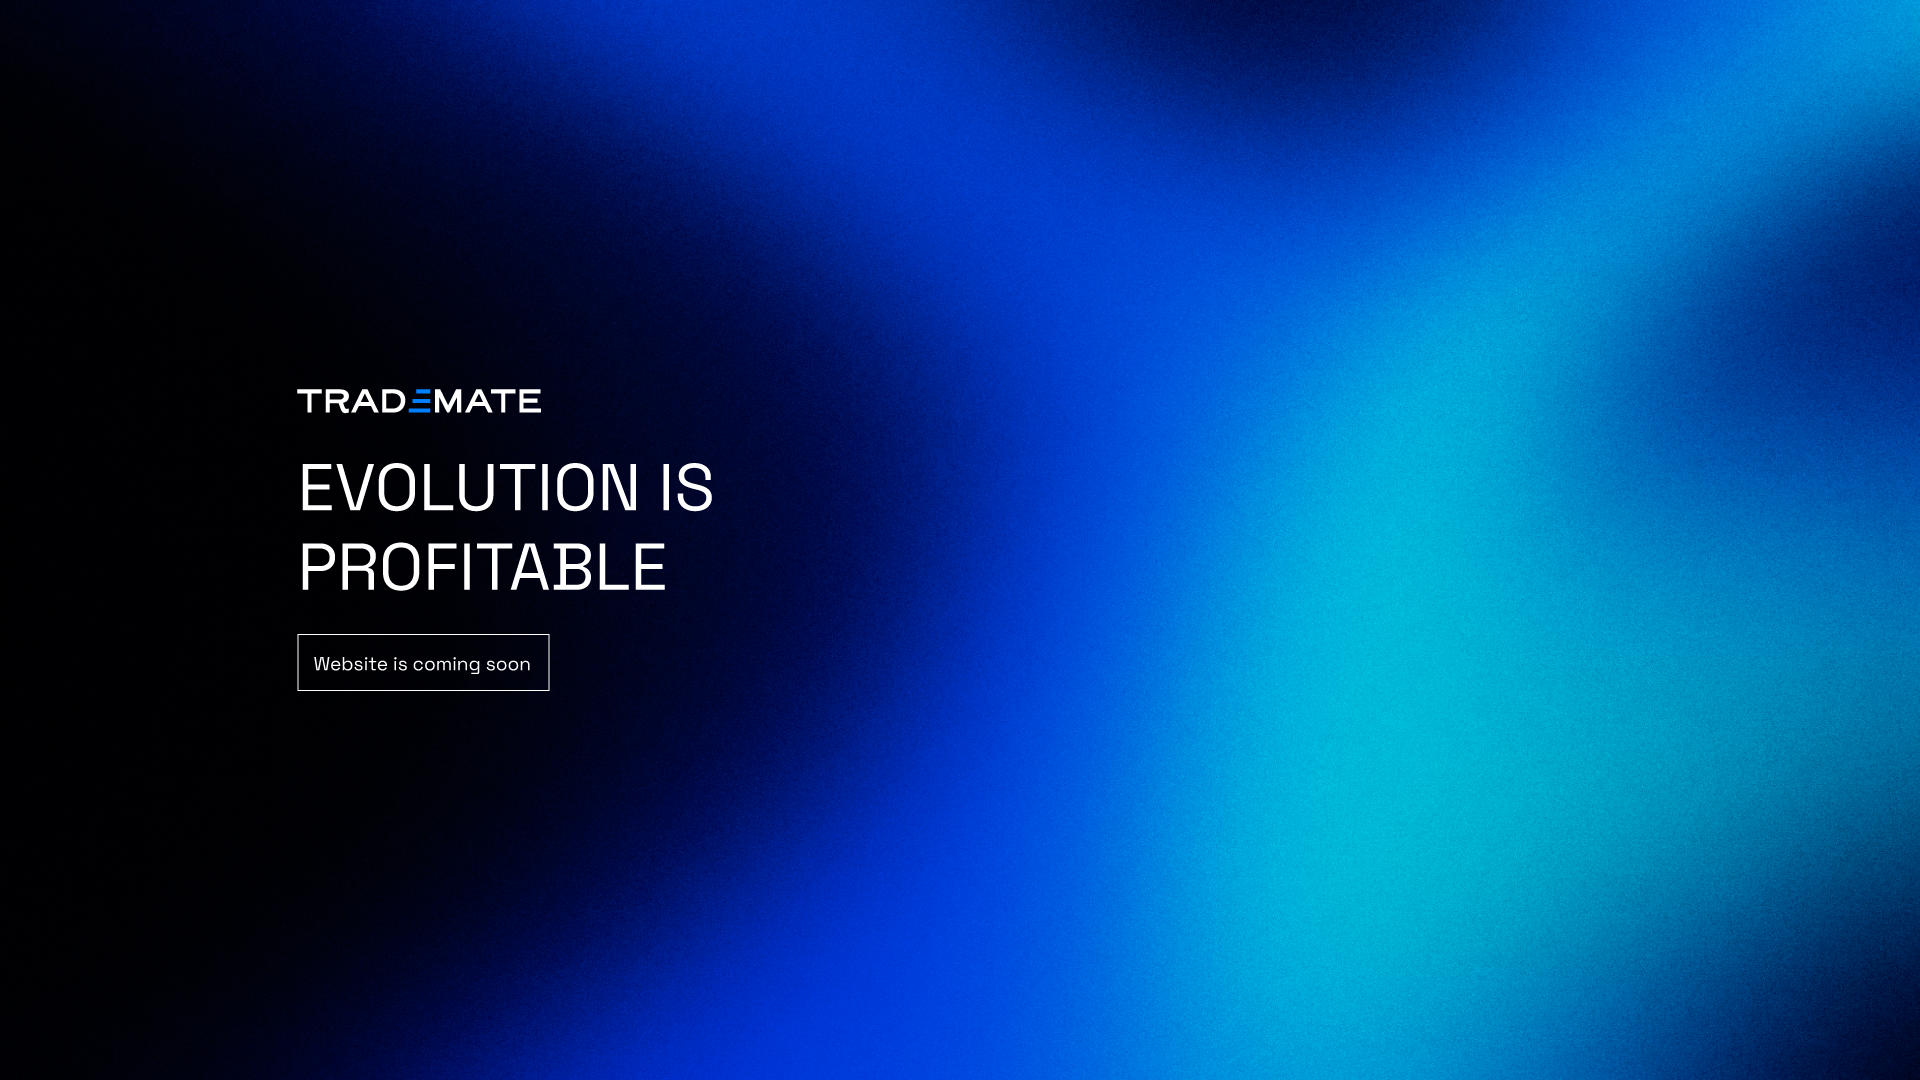
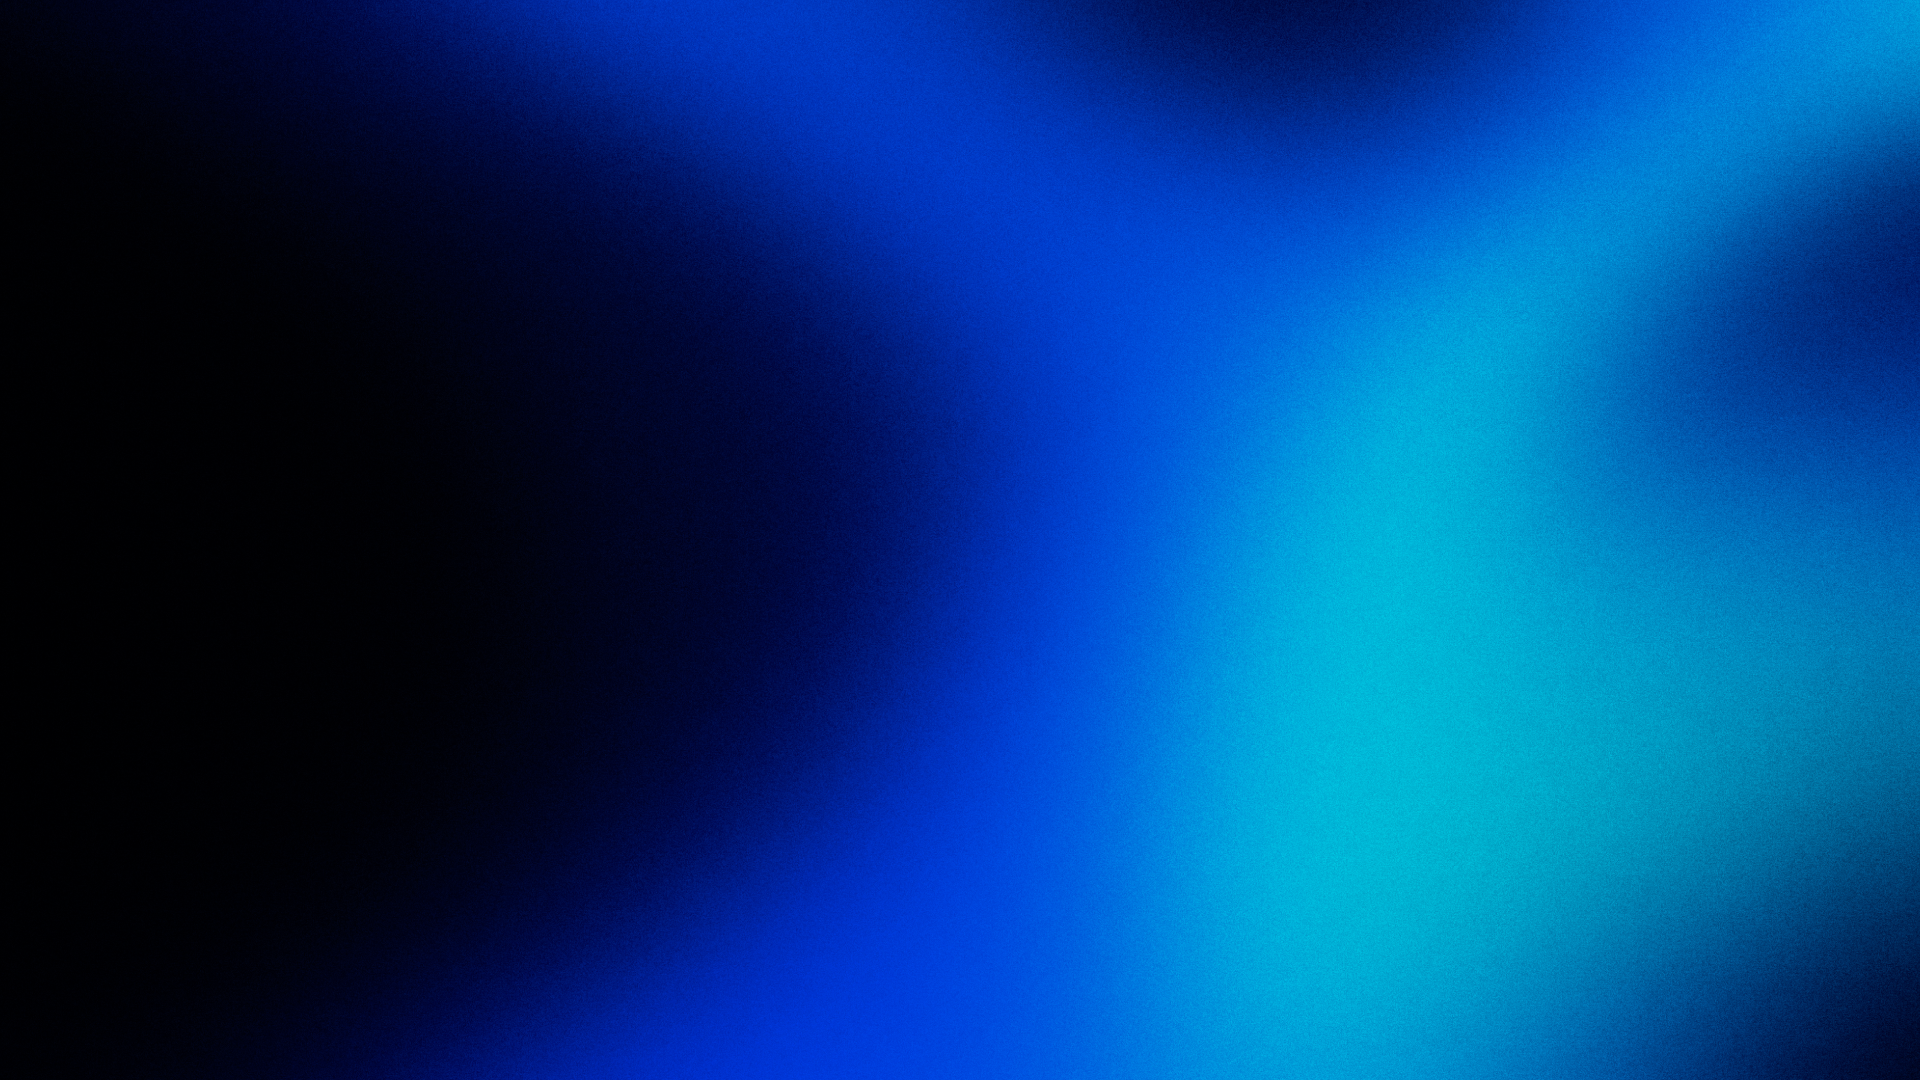
front

Changed region(s): [[0.1562, 0.4278, 0.375, 0.55], [0.1562, 0.3361, 0.2812, 0.3972], [0.1562, 0.6111, 0.2812, 0.6417]]

diff --git a/style.css b/style.css
@@ -1,0 +1,117 @@
+    /* 1. Use a more-intuitive box-sizing model */
+*, *::before, *::after {
+  box-sizing: border-box;
+}
+/* 2. Remove default margin */
+* {
+  margin: 0;
+}
+/* 3. Enable keyword animations */
+@media (prefers-reduced-motion: no-preference) {
+  html {
+    interpolate-size: allow-keywords;
+  }
+}
+body {
+  /* 4. Add accessible line-height */
+  line-height: 1.5;
+  /* 5. Improve text rendering */
+  -webkit-font-smoothing: antialiased;
+  font-family: 'Space Grotesk' !important;
+}
+/* 6. Improve media defaults */
+img, picture, video, canvas, svg {
+  display: block;
+  max-width: 100%;
+}
+/* 7. Inherit fonts for form controls */
+input, button, textarea, select {
+  font: inherit;
+}
+/* 8. Avoid text overflows */
+p, h1, h2, h3, h4, h5, h6 {
+  overflow-wrap: break-word;
+}
+/* 9. Improve line wrapping */
+p {
+  text-wrap: pretty;
+}
+h1, h2, h3, h4, h5, h6 {
+  text-wrap: balance;
+}
+/*
+  10. Create a root stacking context
+*/
+#root, #__next {
+  isolation: isolate;
+}
+
+
+h1{
+  margin: 1rem 0;
+  color: white;
+  font-size: 3rem;
+  font-weight: 200;
+  font-family: 'Space Grotesk';
+  line-height: 3rem;
+}
+
+.myButton {
+	background-color:transparent;
+	border:1px solid #ffffff;
+	display:inline-block;
+	cursor:pointer;
+	color:#ffffff;
+	font-size:15px;
+	padding:10px 23px;
+	text-decoration:none;
+ 
+}
+
+
+.myButton:hover {
+	background-color:#0026ff;
+  	border:none;
+}
+.myButton:active {
+	position:relative;
+	top:1px;
+}
+    .desk{
+        display: none;
+        width: 100vw;
+        height: 100vh;
+        background-image: url(img/bg-01.png);
+        background-size: cover;
+    }
+            .mob{
+          
+            display: flex;
+            align-items: center;
+            justify-content: center;
+            width: 100vw;
+            height: 100vh;
+            background-image: url(img/bg-02.png);
+            background-size: cover;
+        }
+    img{
+        display: block;
+    }
+    /*
+  MOBILEMOBILEMOBILE
+*/
+
+    @media (min-width: 1250px) {
+        .desk{
+          padding-left: 15rem;
+             display: flex;
+            align-items: center;
+            justify-content: start;
+            
+        }
+        .mob{
+            display: none;
+            
+        }
+  /* … */
+}

diff --git a/index.html b/index.html
@@ -1,13 +1,32 @@
-<!doctype html>
-<html>
+<!DOCTYPE html>
+<html lang="en">
 <head>
-  <meta charset="UTF-8">
-  <meta name="viewport" content="width=device-width, initial-scale=1.0">
-  <link href="/src/style.css" rel="stylesheet">
+    <meta charset="UTF-8">
+    <link rel="stylesheet" href="style.css">
+    <meta name="viewport" content="width=device-width, initial-scale=1.0">
+    <link rel="preconnect" href="https://fonts.googleapis.com">
+<link rel="preconnect" href="https://fonts.gstatic.com" crossorigin>
+<link href="https://fonts.googleapis.com/css2?family=Space+Grotesk:wght@300..700&display=swap" rel="stylesheet">
+    <link rel="apple-touch-icon" sizes="180x180" href="apple-touch-icon.png">
+<link rel="icon" type="image/png" sizes="32x32" href="favicon-32x32.png">
+<link rel="icon" type="image/png" sizes="16x16" href="favicon-16x16.png">
+<link rel="icon" type="image/x-icon" href="favicon.ico">
+    <title>Trademate</title>
 </head>
-<body class="w-full h-screen p-0 m-0">
-<section class="w-full h-screen ">
-  <img src="bg-01.png" class="object-cover w-full h-full" alt="colorful leafs" />
-</section>
+<body>
+    <div class="desk">
+<div class="logo">
+<img src="img/new-logo.svg" width="200">
+<h1>EVOLUTION IS <br>PROFITABLE</h1>
+<a href="#" class="myButton">New website is coming soon</a>
+</div>
+    </div>
+        <div class="mob">
+   <div class="logo">
+<img src="img/new-logo.svg" width="150">
+<h1>EVOLUTION IS <br>PROFITABLE</h1>
+<a href="#" class="myButton">New website is coming soon</a>
+</div>
+    </div>
 </body>
 </html>

diff --git a/styles.css b/styles.css
@@ -1,0 +1,26 @@
+body{
+ margin: 0;
+ padding: 0;
+}
+.cont{
+    padding-left: 10rem;
+}
+h1{
+    padding: 2rem 0;
+    margin: 0;
+    color: white;
+    font-size: 3rem;
+    font-family: 'Space Grotesk';
+    font-weight: 100;
+}
+.head{
+ color: aqua;
+}
+.bg{
+    display: flex;
+    justify-content: start;
+    align-items: center;
+    height: 100vh;
+ background-image: url('bg-01.png');
+ background-size: cover;
+}
